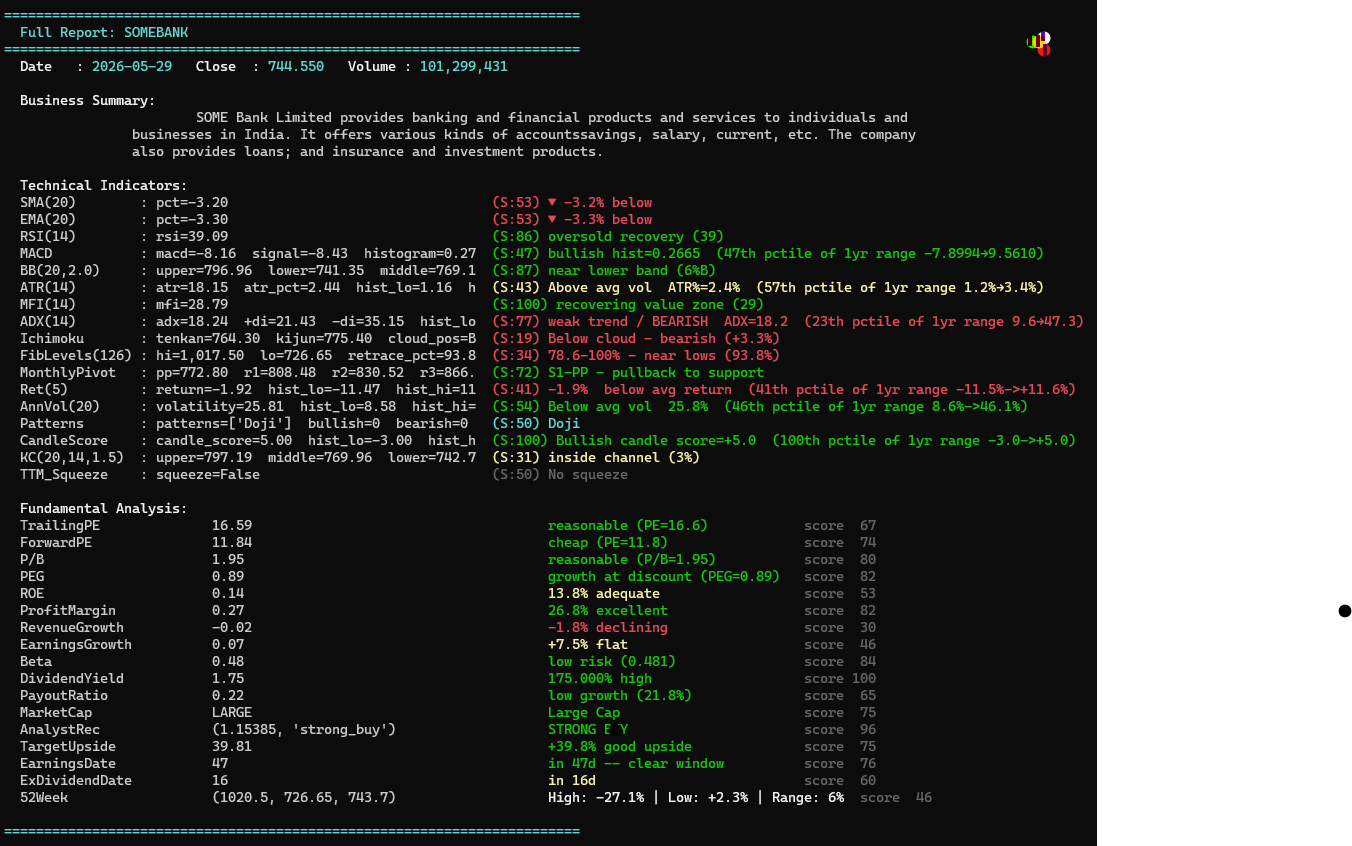
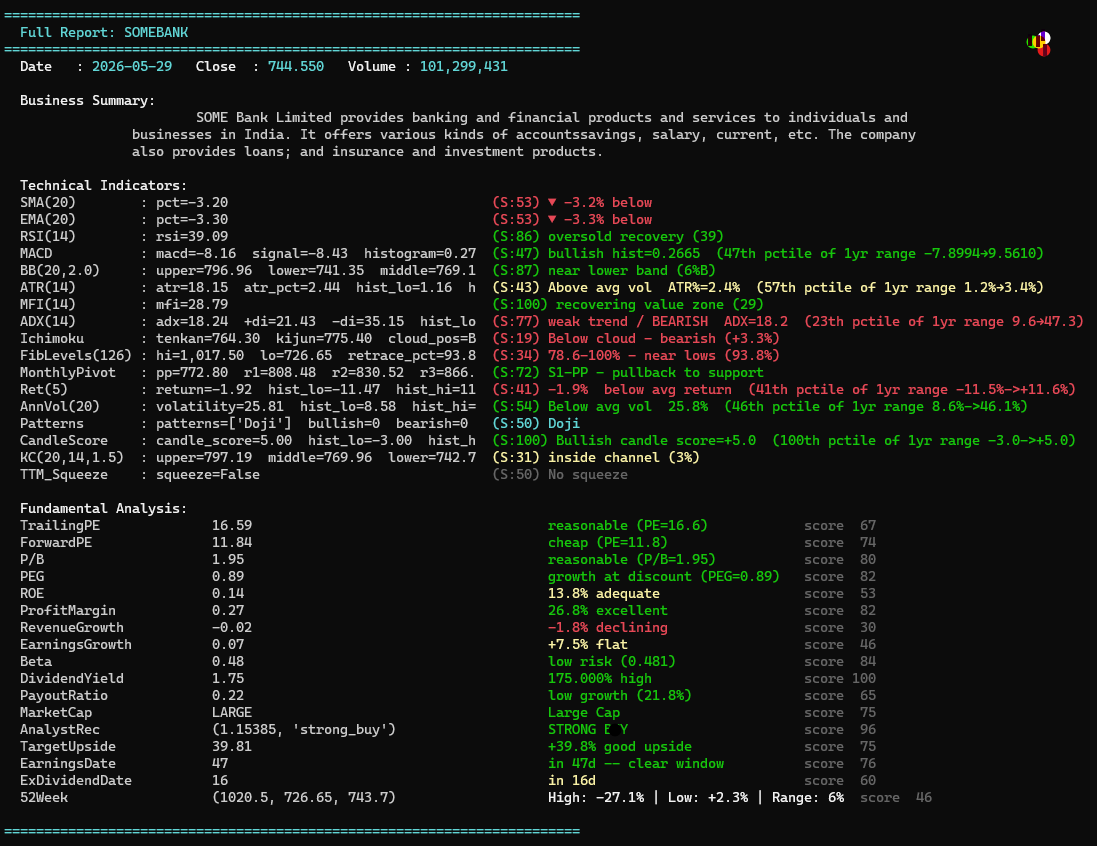
Cleanup readme

diff --git a/README.md b/README.md
@@ -444,28 +444,8 @@ NIFTY 50   | N/A          | N/A         | N/A       | N/A  | N/A   | N/A        
 ```bash
 python stonks.py candles/ -r --tech-weight 0.85 --fund-weight 0.15
 ```
+Some arbitrary ranking based on your selection of technical/fundamental indicators and respective scoring weights set in code.
 ![Screenshot](docs/screenshots/ranking.png)
-```txt
-Gate Flags:
-  M = Momentum (20d return > 0)
-  T = Trend (price > SMA20 or oversold recovery)
-  A = ADX (ADX > 20 or RSI < 30)
-  F = MFI (MFI <= 80)
-  I = Ichimoku (price above cloud)
-  B = BB/TTM Squeeze (volatility compression)
-  ✓ = passed  ✗ = failed
-
---+------------+-------+------+------+---+---+---+---+---+--
-# | Symbol     | Score | TA   | FA   | M | T | A | F | I | B |
---+------------+-------+------+------+---+---+---+---+---+--
-1 | HDFCBANK   | 73.2  | 70.8 | 86.4 | ✗ | ✗ | ✗ | ✓ | ✗ | ✗ |
-2 | TATACONSUM | 57.5  | 58.4 | 52.7 | ✓ | ✓ | ✓ | ✓ | ✗ | ✗ |
-3 | ITC        | 53.0  | 49.4 | 73.2 | ✗ | ✗ | ✗ | ✓ | ✗ | ✗ |
-4 | RELIANCE   | 50.4  | 47.2 | 68.5 | ✗ | ✗ | ✗ | ✓ | ✗ | ✗ |
-5 | NIFTY 50   | 49.5  | 58.3 | -    | ✗ | ✓ | ✗ | ✗ | ✗ | ✗ |
-6 | INDIA VIX  | 33.9  | 39.9 | -    | ✗ | ✗ | ✗ | ✗ | ✗ | ✓ |
---+------------+-------+------+------+---+---+---+---+---+--
-```
 
 ### 5. Full report for a single stock
 
@@ -476,28 +456,6 @@ python stonks.py candles/HDFCBANK.json
 This prints a detailed report with business summary, technical indicators (with raw values and verdicts), and fundamental analysis (with scores). Example excerpt:
 
 ![Screenshot](docs/screenshots/individual_stock_analysis.png)
-
-```txt
-========================================================================
-  Full Report: HDFCBANK
-========================================================================
-  Date   : 2026-05-29   Close  : 744.550   Volume : 101,299,431
-
-  Business Summary:
-                        HDFC Bank Limited provides banking and financial products...
-
-  Technical Indicators:
-  SMA(20)        : pct=-3.20                                 (S:53) ▼ -3.2% below
-  RSI(14)        : rsi=39.09                                 (S:86) oversold recovery (39)
-  MACD           : macd=-8.16  signal=-8.43  histogram=0.27  (S:47) bullish hist=0.2665...
-  ...
-  Fundamental Analysis:
-  TrailingPE              16.63                                     reasonable (PE=16.6)            score  67
-  ForwardPE               11.86                                     cheap (PE=11.9)                 score  74
-  AnalystRec              (1.15385, 'strong_buy')                   STRONG BUY                      score  96
-  ...
-========================================================================
-```
 
 ---
 
